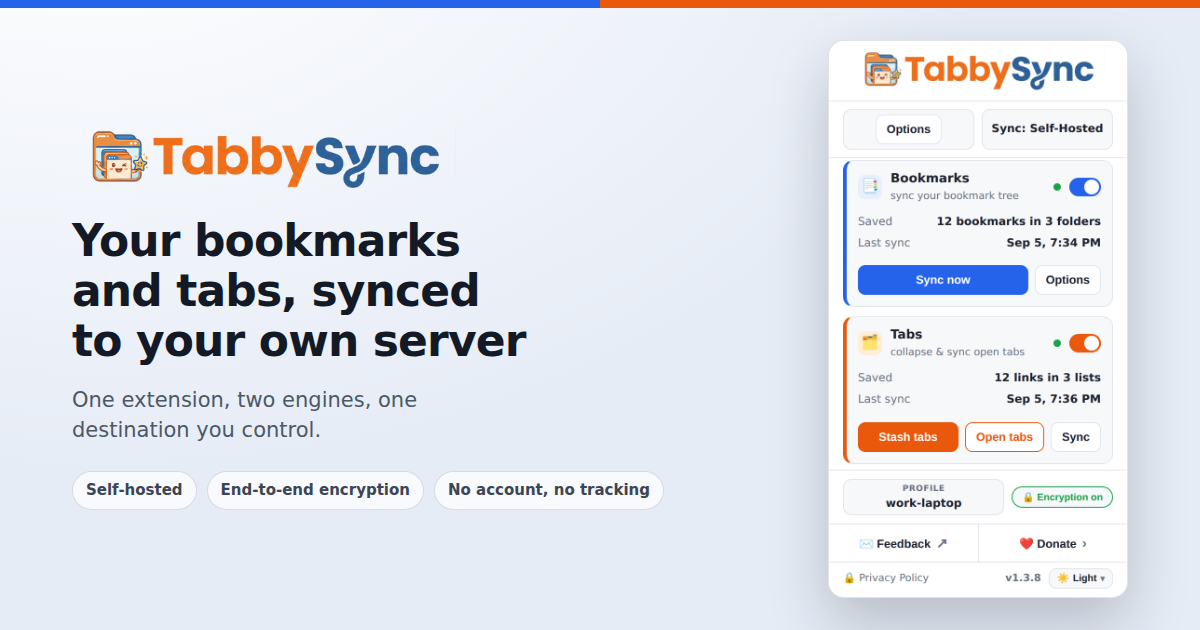
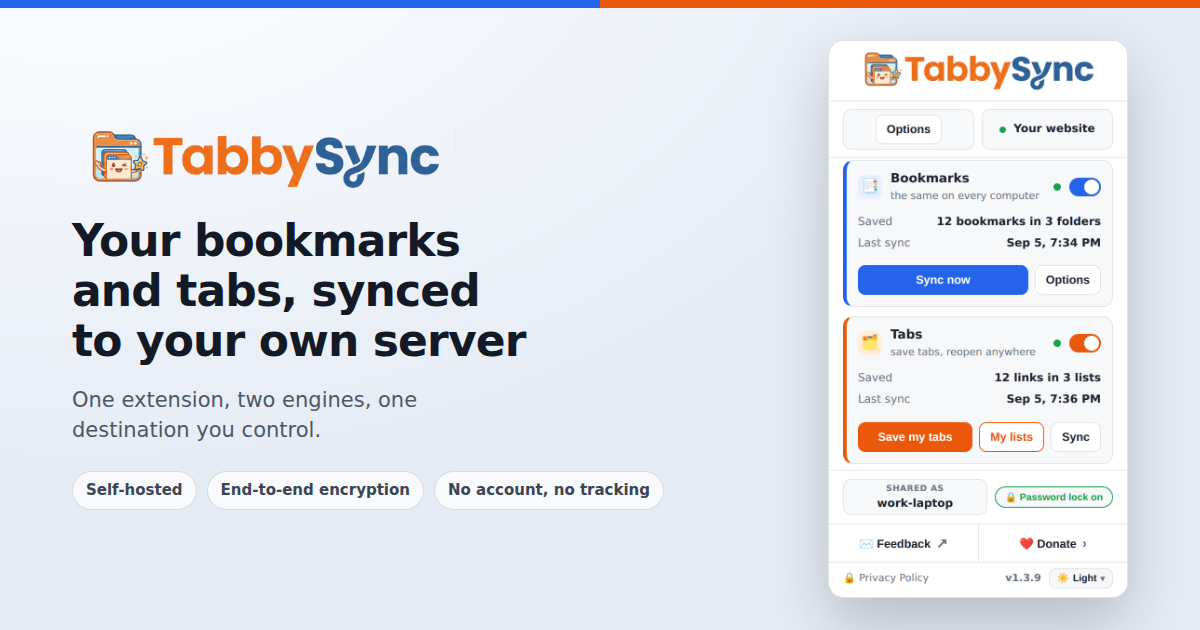
Match the popup to the rebuilt options page; bump to 1.3.9
The settings page now asks where your data should live in plain words and
calls the encryption passphrase a password lock. The popup still said
"Sync: Self-Hosted", "Encryption on", "Stash tabs" and "Open tabs" — the
same four concepts under four different names, in the one surface people
actually look at daily.

So: the destination reads "Your website" / "Your GitHub" / "Free
storage", or "Not set up" when nothing is configured, with a status dot
that mirrors the band at the top of settings and takes the worse of the
two engines rather than showing neutral while a card below it shows red.
"Encryption on/off" is "Password lock". "Stash tabs" is "Save my tabs",
and "Open tabs" — which opened the saved list, not tabs — is "My lists".
The profile box says "Shared as" instead of "Profile", which is what the
name actually does.

The popup's height is unchanged at 598px, verified in the loaded
extension, so it still never scrolls. That is why the Tabs subtitle is
"save tabs, reopen anywhere" rather than the longer phrasing it wants:
the extra word wrapped to a second line and pushed the whole popup 16px
taller.

Version 1.3.9 across the manifest, package.json and the site footer, with
the changelog entry covering both this and the options rebuild. The
screenshots were regenerated from the changed UI.

Claude-Session: https://claude.ai/code/session_01TC3BsibnmLtp4DeChqoBBm

diff --git a/popup.js b/popup.js
@@ -77,10 +77,11 @@ async function refreshTabs() {
 
 var encBadgeWired = false;
 
-// Short display names for the sync-method box under the logo — the
-// provider metadata's own .label is the longer Options-dropdown text
-// (e.g. "JSONBin.io (free, no server)"), too long for that compact box.
-var SYNC_METHOD_SHORT = { custom: "Self-Hosted", gist: "GitHub Gist", jsonbin: "JSONBin.io" };
+// Where the data goes, in the same plain words the settings page asks the
+// question in ("My own website" / "My GitHub account" / "Just get me going").
+// The provider metadata's own .label is the longer technical name, which is
+// both too long for this box and not what someone chose by.
+var SYNC_METHOD_SHORT = { custom: "Your website", gist: "Your GitHub", jsonbin: "Free storage" };
 
 async function refreshBanner() {
   var c = await self.TabbySyncConfig.getConfig();
@@ -88,8 +89,13 @@ async function refreshBanner() {
 
   var syncLabel = $("syncLabel");
   var shortName = SYNC_METHOD_SHORT[c.provider] || self.TabbySyncProviders.providerMeta(c.provider).label;
-  syncLabel.textContent = "Sync: " + shortName;
-  syncLabel.title = self.TabbySyncProviders.providerMeta(c.provider).label;
+  syncLabel.textContent = configured ? shortName : "Not set up";
+  syncLabel.title = configured
+    ? "Saved to " + shortName.toLowerCase() + " — " + self.TabbySyncProviders.providerMeta(c.provider).label
+    : "Nothing is syncing yet. Open settings to choose where your data should live.";
+  // The dot mirrors the status band at the top of the settings page rather
+  // than inventing a second vocabulary for the same three states.
+  $("syncDot").className = "syncDot" + (configured ? "" : " setup");
 
   $("setup").hidden = configured;
   var note = $("footNote");
@@ -97,7 +103,7 @@ async function refreshBanner() {
   if (!configured) {
     note.hidden = false;
     row.hidden = true;
-    note.textContent = "Not set up yet — open Options to pick a sync method.";
+    note.textContent = "Not set up yet — open settings to choose where your data lives.";
     return configured;
   }
   note.hidden = true;
@@ -111,12 +117,12 @@ async function refreshBanner() {
   var badge = $("encBadge");
   if (c.passphrase) {
     badge.className = "encBadge on";
-    badge.textContent = "🔒 Encryption on";
-    badge.title = "Encryption is on. Click to manage it in Options.";
+    badge.textContent = "🔒 Password lock on";
+    badge.title = "Your data is scrambled before it leaves this computer. Click to manage it in settings.";
   } else {
     badge.className = "encBadge off";
-    badge.textContent = "⚠ Encryption off";
-    badge.title = "Encryption is off — click to turn it on in Options.";
+    badge.textContent = "⚠ No password lock";
+    badge.title = "Whoever stores your data can read it. Click to turn the password lock on in settings.";
   }
   // The badge itself never changes identity, so wire the click once rather
   // than re-binding a fresh listener on every refresh.
@@ -126,7 +132,17 @@ async function refreshBanner() {
 }
 
 async function refreshAll() {
-  await Promise.all([refreshBanner(), refreshBookmarks(), refreshTabs()]);
+  var r = await Promise.all([refreshBanner(), refreshBookmarks(), refreshTabs()]);
+  var configured = r[0], bm = r[1], tb = r[2];
+  // A red dot on a card and a neutral one up here would be the popup
+  // disagreeing with itself, so the top dot takes the worse of the two.
+  if (configured) {
+    var failed = (bm && bm.enabled && bm.lastStatus === "error") ||
+                 (tb && tb.enabled && tb.lastStatus === "error");
+    var anyOn = (bm && bm.enabled) || (tb && tb.enabled);
+    $("syncDot").className = "syncDot" + (failed ? " err" : anyOn ? " ok" : " setup");
+    if (failed) $("syncLabel").title = "The last sync did not finish — see the error below.";
+  }
 }
 
 // ---- wiring ----------------------------------------------------------------

diff --git a/popup.html b/popup.html
@@ -45,6 +45,12 @@
     .headBox { flex:1 1 50%; min-width:0; display:flex; align-items:center; justify-content:center; gap:8px;
       padding:5px 8px; border-radius:9px; background:var(--panel); border:1px solid var(--line); }
     .syncBox { font-size:12px; font-weight:700; color:var(--text); overflow:hidden; text-overflow:ellipsis; white-space:nowrap; }
+    /* one dot, same meaning as the band at the top of the settings page:
+       green = syncing, amber = nothing set up yet, red = the last try failed */
+    .syncDot { width:7px; height:7px; border-radius:50%; background:var(--muted); flex:0 0 auto; }
+    .syncDot.ok { background:var(--ok); }
+    .syncDot.setup { background:var(--busy); }
+    .syncDot.err { background:var(--err); }
     /* logo swaps with the effective theme */
     :root .logo-light { display:block; }
     @media (prefers-color-scheme: dark) {
@@ -181,13 +187,14 @@
     <div class="headBox">
       <button class="opts" id="opts">Options</button>
     </div>
-    <div class="headBox syncBox">
-      <span id="syncLabel">Sync: —</span>
+    <div class="headBox syncBox" id="syncBox">
+      <span class="syncDot" id="syncDot"></span><span id="syncLabel">—</span>
     </div>
   </div>
 
   <div id="setup" class="banner" hidden>
-    No server set up yet. <a id="setupLink">Open Options</a> to add your server URL, token and sync name — one setup covers both tools.
+    Not set up yet — it takes about two minutes. <a id="setupLink">Open settings</a> to choose where your
+    bookmarks and tabs should live.
   </div>
 
   <div class="cards">
@@ -195,7 +202,7 @@
     <section class="card bm" id="bmCard">
       <div class="card-h">
         <span class="badge">📑</span>
-        <span class="title">Bookmarks<small id="bmSub">sync your bookmark tree</small></span>
+        <span class="title">Bookmarks<small id="bmSub">the same on every computer</small></span>
         <span class="dot" id="bmDot"></span>
         <label class="sw" title="Enable bookmark sync">
           <input type="checkbox" id="bmEnable"><span class="track"></span>
@@ -216,7 +223,7 @@
     <section class="card tab" id="tabCard">
       <div class="card-h">
         <span class="badge">🗂</span>
-        <span class="title">Tabs<small id="tabSub">collapse &amp; sync open tabs</small></span>
+        <span class="title">Tabs<small id="tabSub">save tabs, reopen anywhere</small></span>
         <span class="dot" id="tabDot"></span>
         <label class="sw" title="Enable tab sync">
           <input type="checkbox" id="tabEnable"><span class="track"></span>
@@ -228,8 +235,8 @@
         <div class="kv" id="tabErrRow" hidden><span>Error</span><span class="v err" id="tabErr"></span></div>
       </div>
       <div class="acts">
-        <button class="primary grow" id="stashAllTabs">Stash tabs</button>
-        <button class="accent" id="tabOpen">Open tabs</button>
+        <button class="primary grow" id="stashAllTabs">Save my tabs</button>
+        <button class="accent" id="tabOpen">My lists</button>
         <button id="tabSync">Sync</button>
       </div>
     </section>
@@ -239,7 +246,7 @@
     <span class="note" id="footNote" hidden>One server · one token · one sync name</span>
     <div class="profileRow" id="profileRow" hidden>
       <div class="profileBox">
-        <span class="profileTag">Profile</span>
+        <span class="profileTag">Shared as</span>
         <span class="profileName" id="profileName"></span>
       </div>
       <button class="encBadge" id="encBadge" type="button"></button>

diff --git a/options.js b/options.js
@@ -165,7 +165,7 @@ async function refreshBand() {
 
   const last = Math.max(bm && bm.lastSync ? bm.lastSync : 0, tb && tb.lastAt ? tb.lastAt : 0);
   setBand('ok', '✓', 'Everything is syncing.',
-    `Saved to ${where}${shared} · last checked ${fmtWhen(last)}`);
+    `Saved to ${where}${shared} · last synced ${fmtWhen(last)}`);
 }
 
 function currentProvider() { return $('sync-provider').value || 'custom'; }

diff --git a/website/config.php b/website/config.php
@@ -15,7 +15,7 @@ declare(strict_types=1);
 const SITE_URL      = 'https://tabbysync.com';
 const SITE_NAME     = 'TabbySync';
 const TAGLINE        = 'Self-hosted sync for your bookmarks and your open tabs.';
-const CURRENT_VERSION = '1.3.8'; // keep in step with manifest.json in the extension repo
+const CURRENT_VERSION = '1.3.9'; // keep in step with manifest.json in the extension repo
 const GITHUB_URL     = 'https://github.com/RyGull/TabbySync';
 const LICENSE_URL    = GITHUB_URL . '/blob/main/LICENSE';
 // GitHub's blob view renders privacy.html as escaped source, not as a page,

diff --git a/CHANGELOG.md b/CHANGELOG.md
@@ -6,6 +6,64 @@ can see it belongs in this file.
 
 Versions before 1.3.0 predate this changelog; their history is in the git log.
 
+## 1.3.9 — 2026-09-05
+
+**The Options page was rebuilt around four questions instead of forty
+controls, and the popup now speaks the same language.** No setting was
+removed and nothing syncs differently; this is about what the pages ask you,
+and in what order.
+
+- Options opened on **Server URL** and **Bearer token** — the most technical
+  things in the extension — above any mention of bookmarks or tabs, and then
+  ran roughly forty controls down a single scroll, ending in a fully expanded
+  section that permanently deletes your synced data. It is now four numbered
+  steps: where the data lives, how to reach it, what to call this group of
+  computers, and a password to lock it with. Everything else is one
+  disclosure deeper.
+- **Two different fields were both labelled "Sync name."** One's help text
+  began "Unlike the Sync name for other methods…", which only parsed if you
+  already understood the model. They are now "Name for this group of
+  computers" and "Name for this computer", and only one shows at a time.
+- **Three separate boxes asked for a passphrase**, meaning three different
+  things: the encryption passphrase, a bookmark backup passphrase, and a tab
+  backup passphrase. The encryption one is now a single "password lock" with
+  an on/off switch; the two backup fields say on their face that they are
+  about the file you save to your own computer.
+- **The sync-method dropdown became three choices phrased as outcomes** —
+  "My own website" (still the default and still the most private), "My GitHub
+  account", "Just get me going" — each carrying the privacy trade-off it
+  makes. The `<select>` behind them is unchanged and still the single source
+  of truth, so nothing about how a destination is saved or reached moved.
+- **GitHub and JSONBin now have real setup guides.** Both need an account and
+  a key fetched from someone else's website, which used to be explained in a
+  dense block of prose wedged under the dropdown. A "Show me how, step by
+  step" button opens a full walk-through: every screen, what to choose for
+  token expiry and permissions, and what to do when it fails. Both open with
+  what the choice costs you in privacy.
+- **Self-hosting is no longer a card everyone scrolls past.** It appears as
+  step 2 only for the destination that needs it, as a numbered walk-through
+  with the file generator as its first step. The remaining steps renumber, so
+  the page never counts 1, 3, 4.
+- **A status band answers the question the page never answered:** whether any
+  of this is actually working. It reads the same status both engines already
+  report to the popup, and says so plainly when the last sync failed rather
+  than showing green while the popup shows red.
+- **"Test connection" no longer reports a 404 as good news.** Same check,
+  answer in words.
+- **Duplicate handling has a default.** It was a required dropdown with no
+  default, so setup could not finish until you ruled on a question you had no
+  basis to answer yet. It now defaults to skipping repeats within a single
+  send, and that default is written to storage on first load so the setting
+  and the UI can never disagree. An install that already had a choice saved
+  keeps it.
+- **The popup follows the same vocabulary.** "Sync: Self-Hosted" became "Your
+  website" with a status dot that mirrors the settings band; "Encryption
+  on/off" became "Password lock"; "Stash tabs" and "Open tabs" became "Save
+  my tabs" and "My lists"; the profile box says what the name is for. The
+  popup's height is unchanged, so it still never scrolls.
+- **Screenshots** in `docs/screenshots/` and on the marketing site were
+  regenerated from the rebuilt UI by `scripts/screenshots.mjs`.
+
 ## 1.3.8 — 2026-09-04
 
 **Self-hosted server URLs must now use HTTPS.** This is a deliberate
